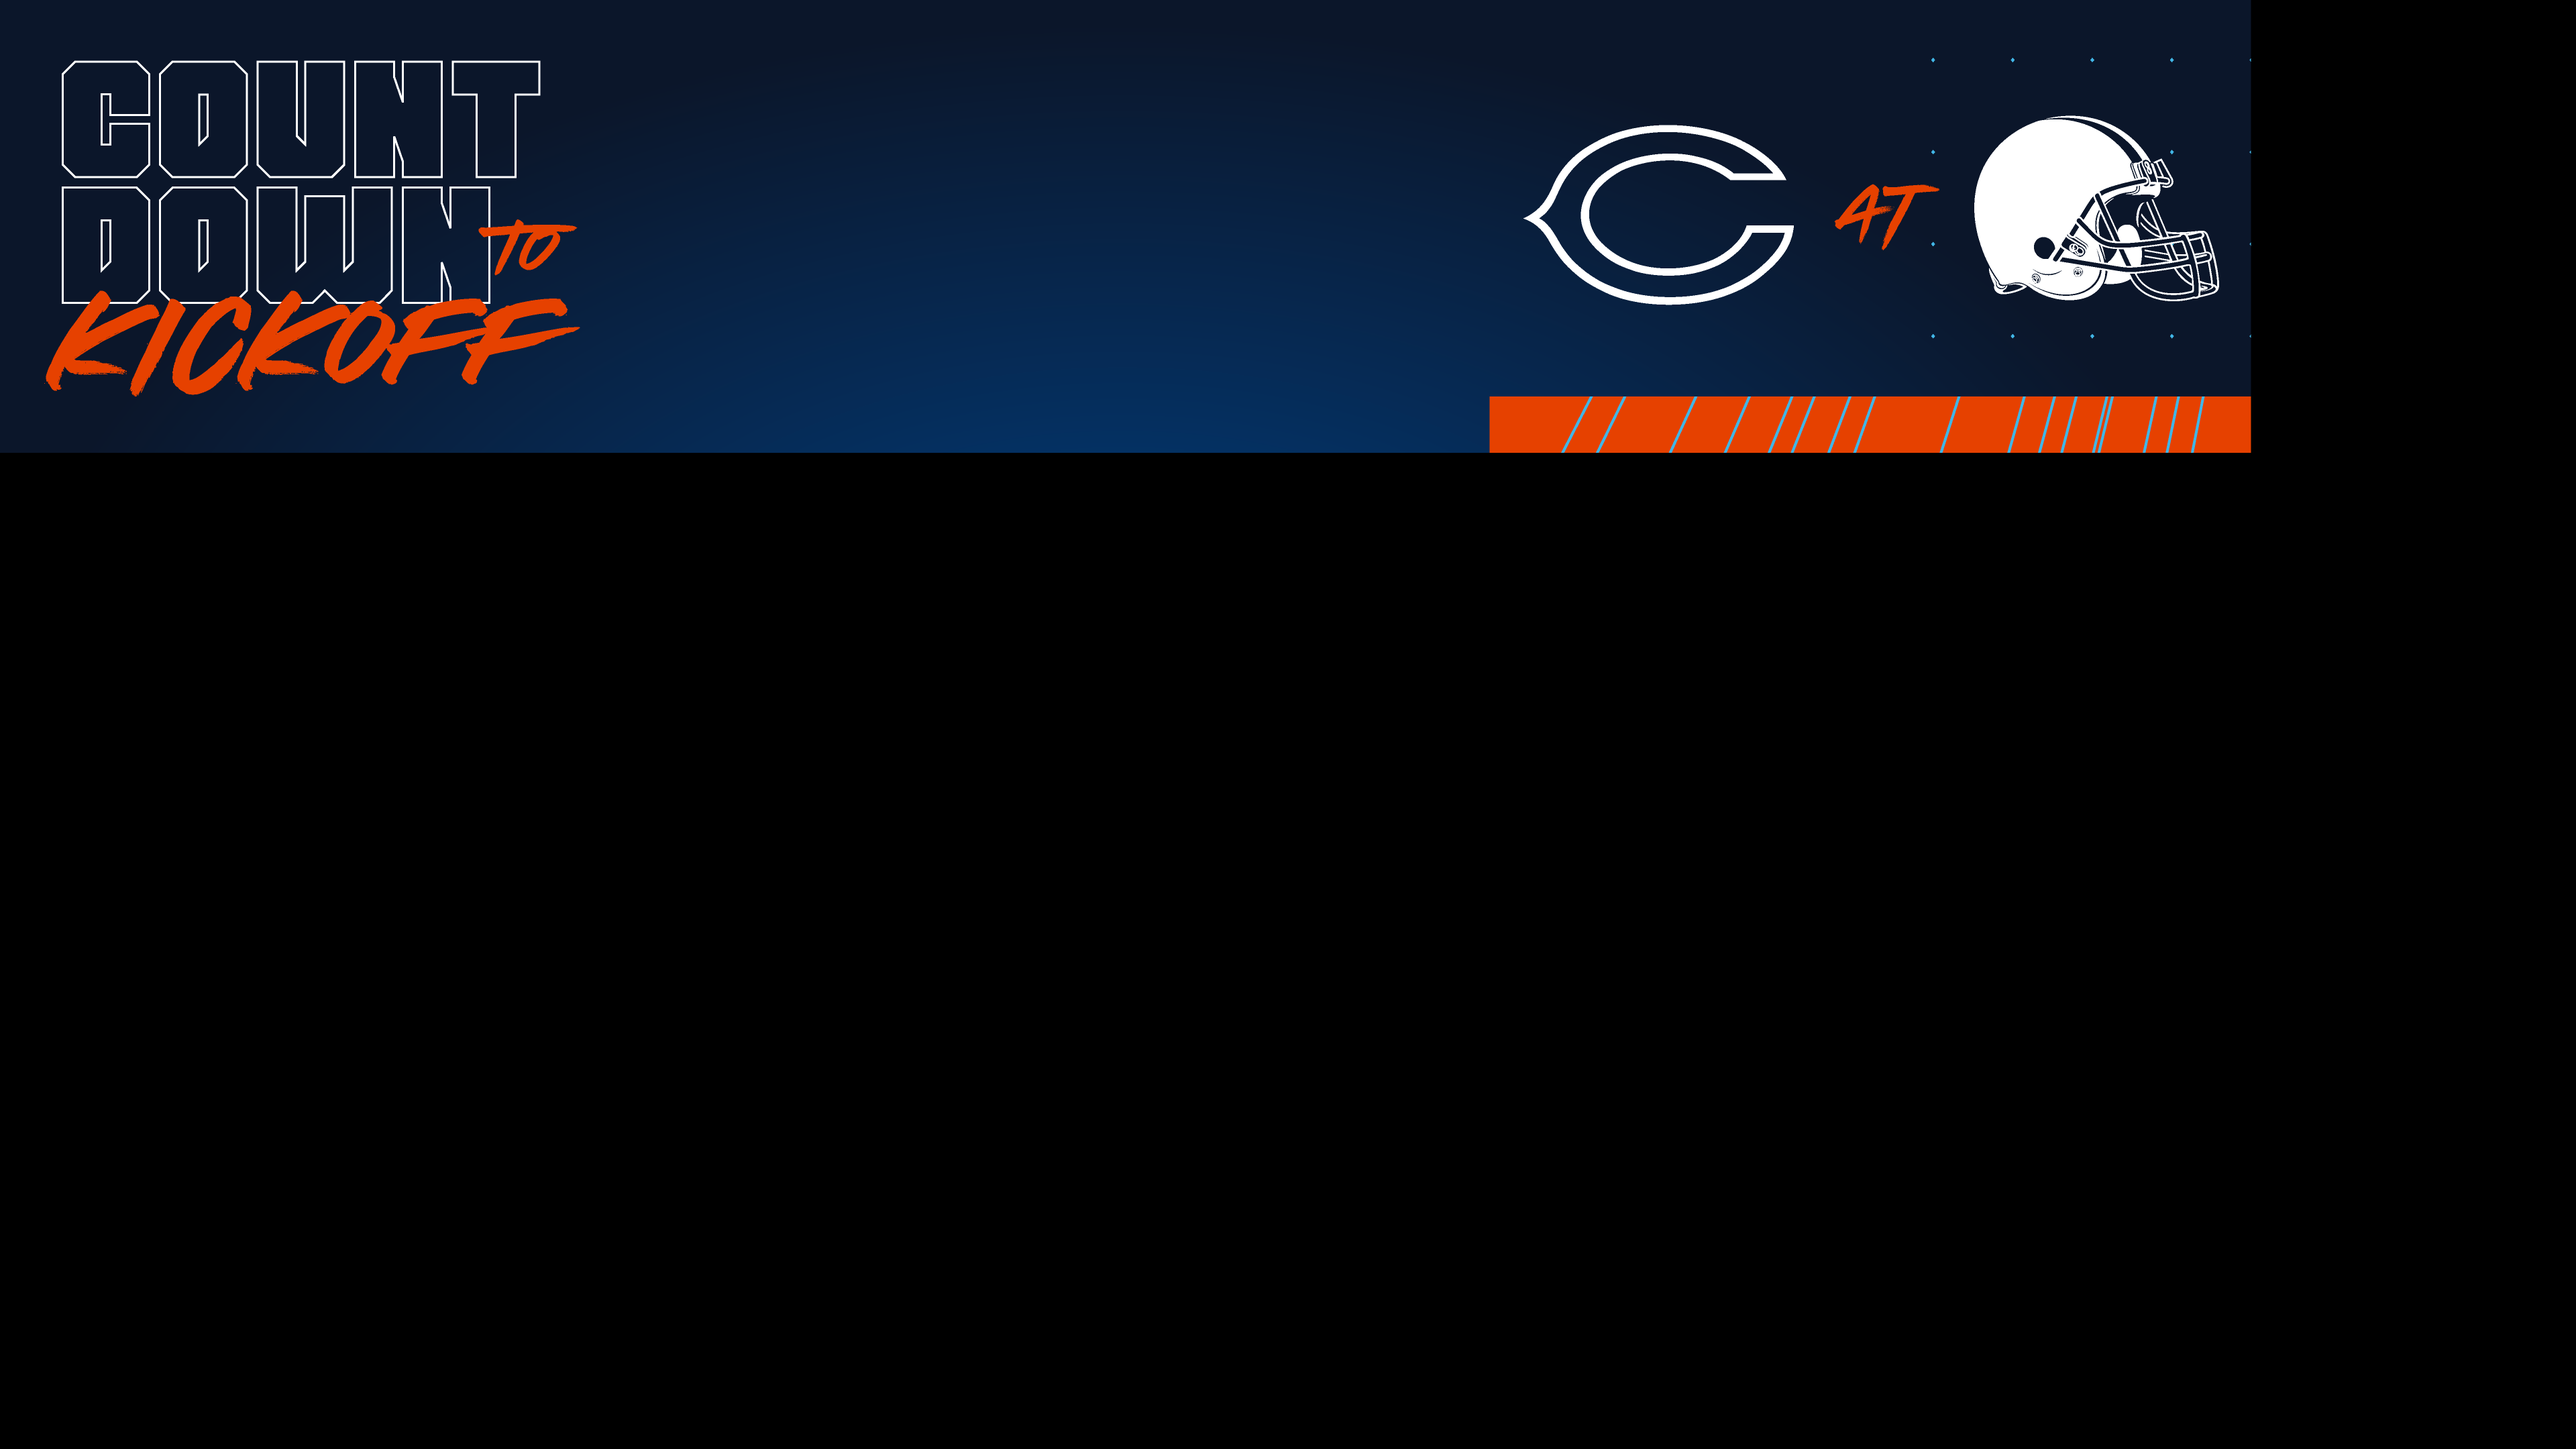
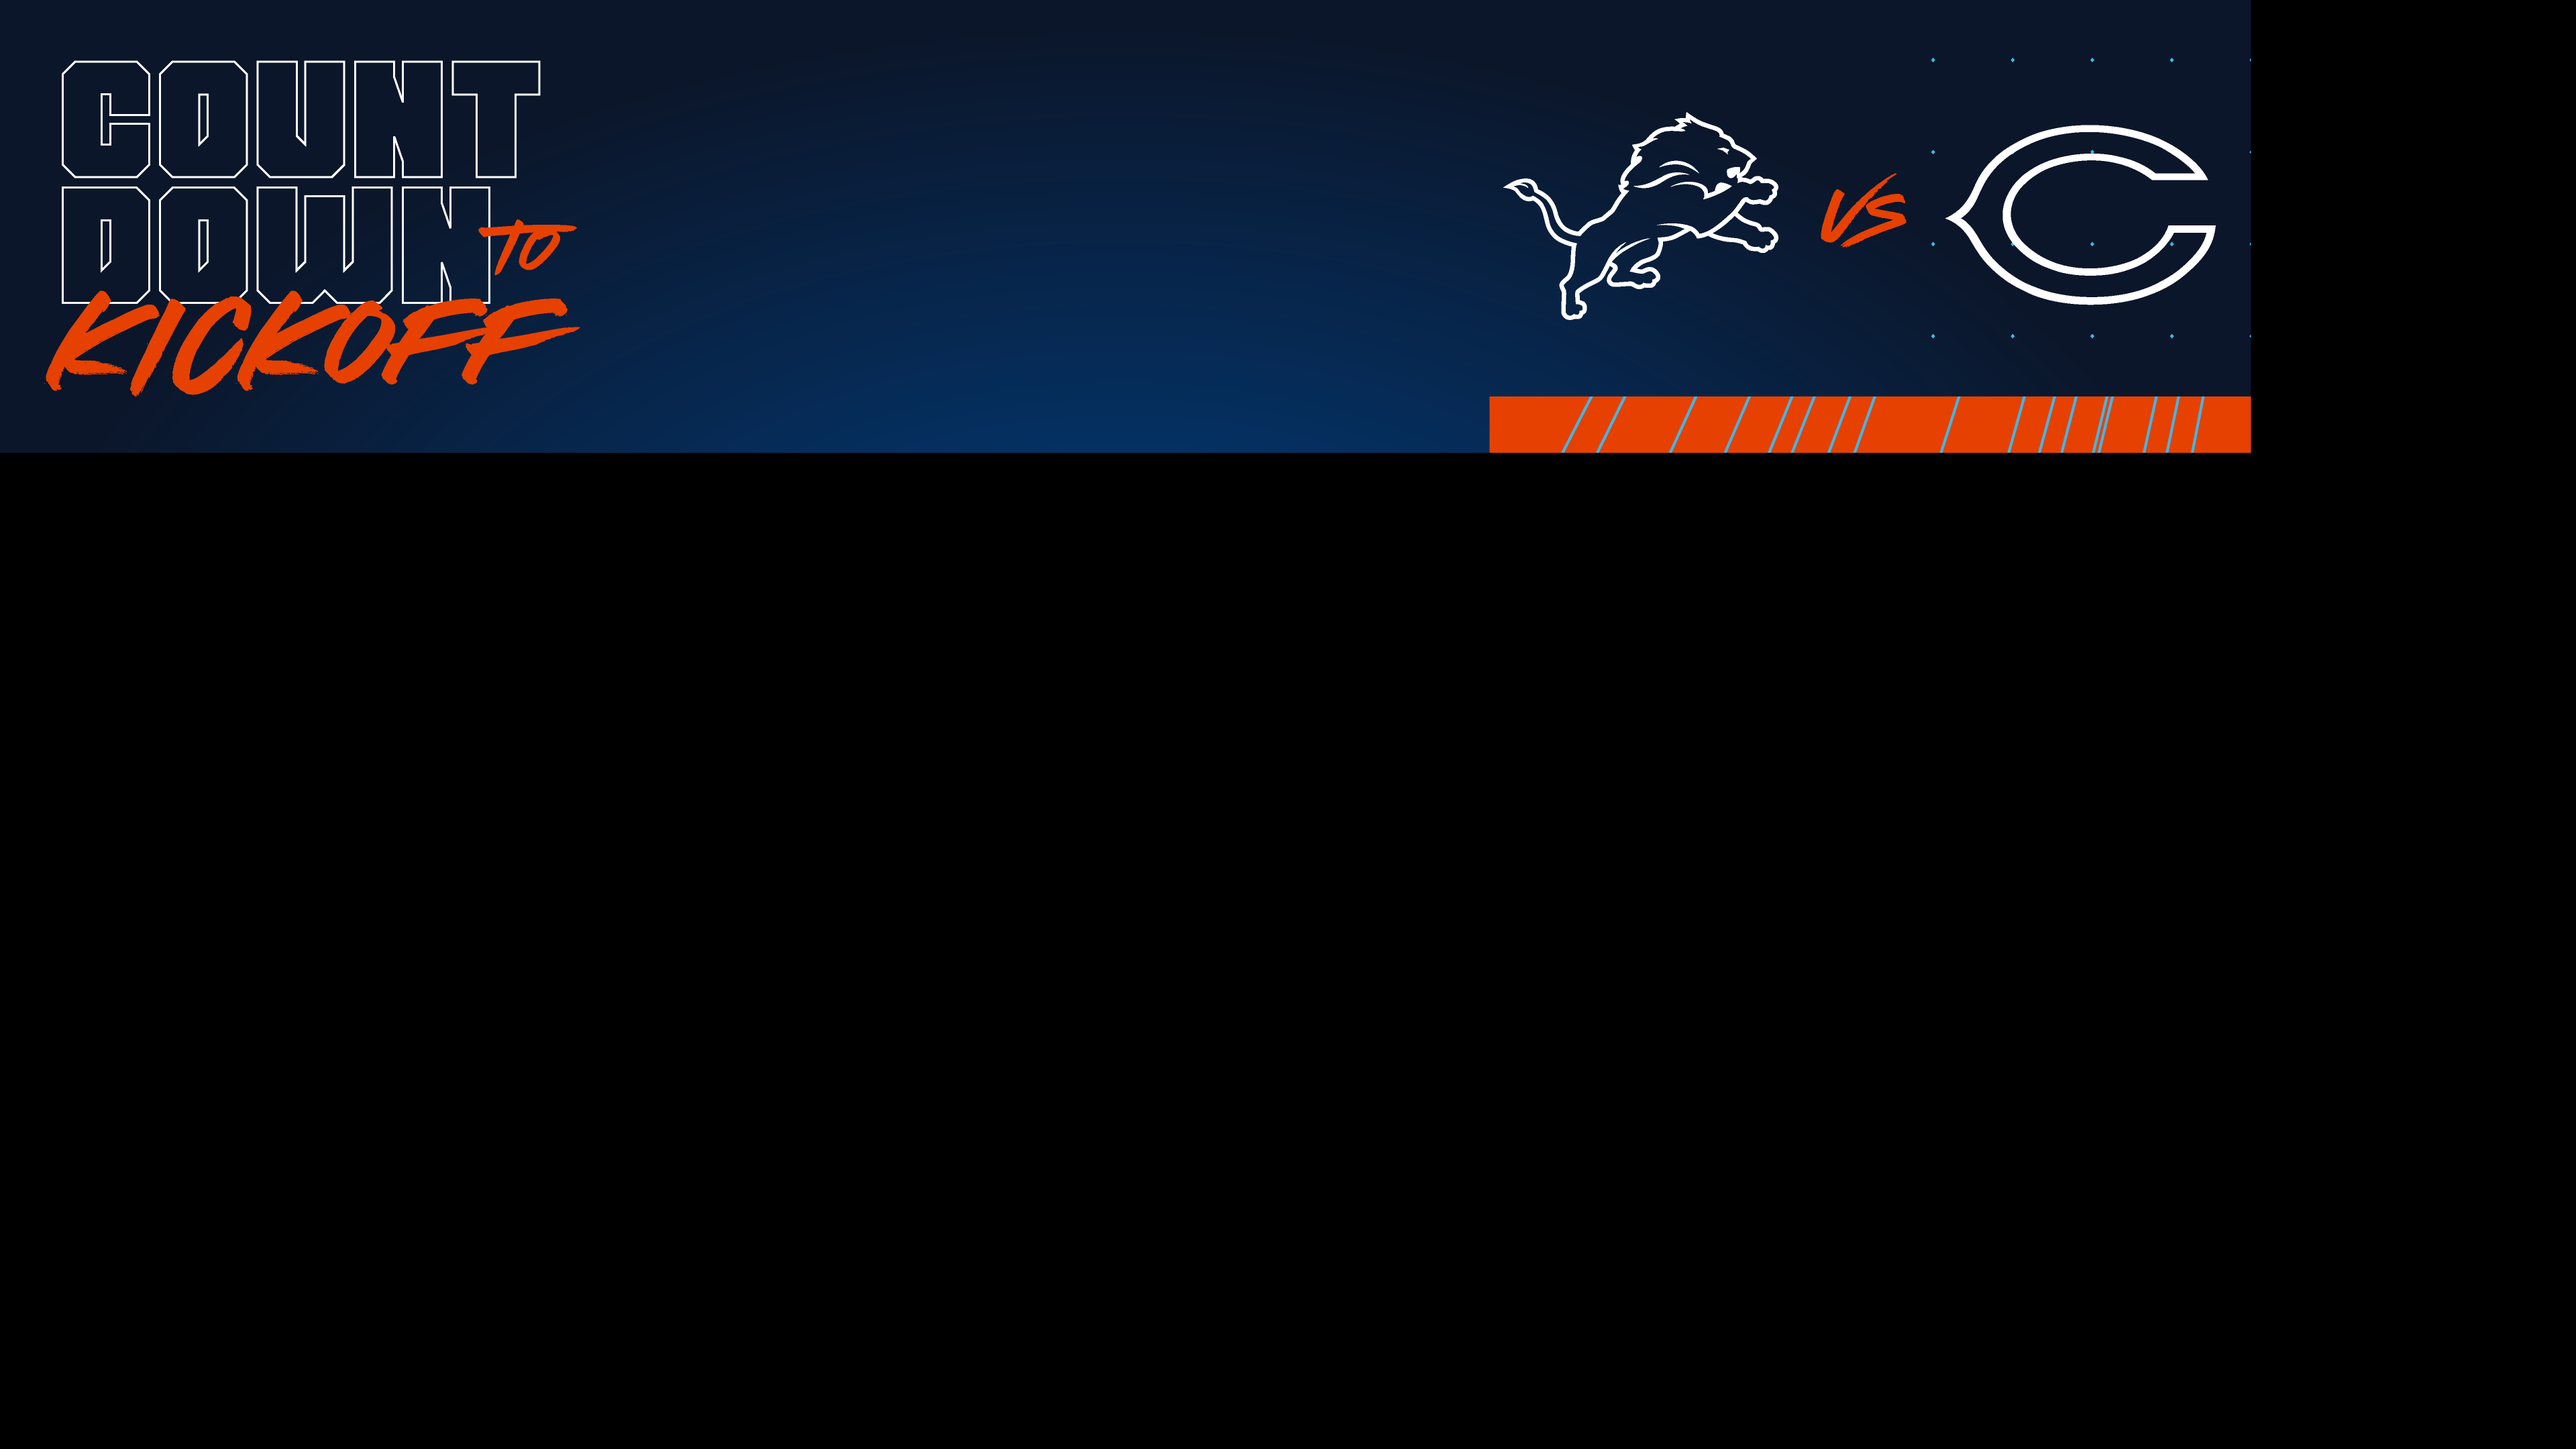
Updated current week to DET

Changed region(s): [[0.5938, 0.062, 0.875, 0.2171]]

diff --git a/CurrentWeek/Horizontal/script.js b/CurrentWeek/Horizontal/script.js
@@ -68,9 +68,9 @@ $(document).ready(function(){
 			return futureFormattedDate
 		}
 		//USE 24HR MILITARY TIME
-		//CLE
+		//DET
 		$("#countdown").countdown({
-			date: "26 September 2021 12:00:00",
+			date: "3 October 2021 12:00:00",
 			format: "on"
 		});
 	});
